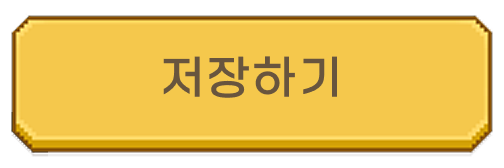
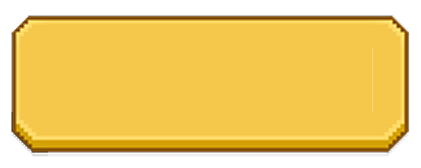
style : 농장 저장 모달 버튼 변경
- 취소 및 저장 버튼 에셋 교체
- 저장하기 문구에 DX 늘리 미디엄 11/120 규격 적용
- 버튼 크기를 디자인 규격에 맞게 조정

Changed region(s): [[0.3088, 0.3274, 0.6793, 0.5952], [0.0, 0.0893, 0.1235, 0.9226], [0.8955, 0.0893, 0.9881, 0.9226]]

diff --git a/src/features/save-creature/ui/SaveCreatureConfirmModal.tsx b/src/features/save-creature/ui/SaveCreatureConfirmModal.tsx
@@ -3,6 +3,7 @@ import {
   Modal,
   Pressable,
   StyleSheet,
+  Text,
   View,
 } from 'react-native';
 
@@ -19,7 +20,7 @@ const TEXT_WIDTH = scaleByDeviceWidth(179);
 const TEXT_HEIGHT = TEXT_WIDTH * (256 / 716);
 const TEXT_TOP = scaleByDeviceWidth(30);
 const TEXT_BUTTON_GAP = scaleByDeviceWidth(16);
-const BUTTON_WIDTH = scaleByDeviceWidth(126);
+const BUTTON_WIDTH = scaleByDeviceWidth(105.15);
 const BUTTON_HEIGHT = scaleByDeviceWidth(42);
 const BUTTON_GAP = scaleByDeviceWidth(4);
 const CLOSE_SIZE = scaleByDeviceWidth(36);
@@ -97,6 +98,7 @@ export function SaveCreatureConfirmModal({
                 source={CONFIRM_BUTTON_IMAGE}
                 style={styles.actionButtonImage}
               />
+              <Text style={styles.confirmButtonText}>저장하기</Text>
             </Pressable>
           </View>
           <Pressable
@@ -149,10 +151,19 @@ const styles = StyleSheet.create({
   actionButton: {
     width: BUTTON_WIDTH,
     height: BUTTON_HEIGHT,
+    alignItems: 'center',
+    justifyContent: 'center',
   },
   actionButtonImage: {
+    ...StyleSheet.absoluteFillObject,
     width: BUTTON_WIDTH,
     height: BUTTON_HEIGHT,
+  },
+  confirmButtonText: {
+    color: '#685A48',
+    fontFamily: 'EliceDXNeolli-Medium',
+    fontSize: scaleByDeviceWidth(11),
+    lineHeight: scaleByDeviceWidth(13.2),
   },
   closeButton: {
     position: 'absolute',
